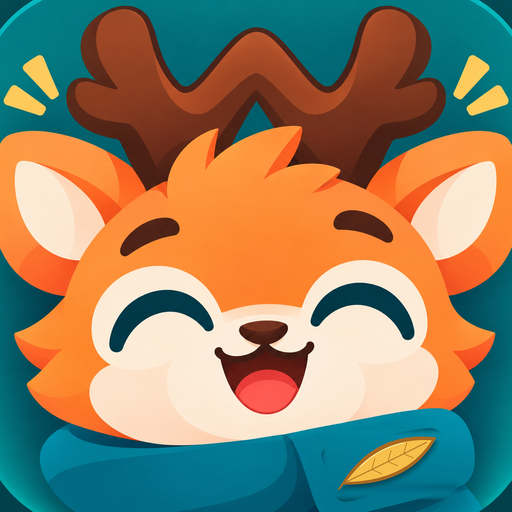
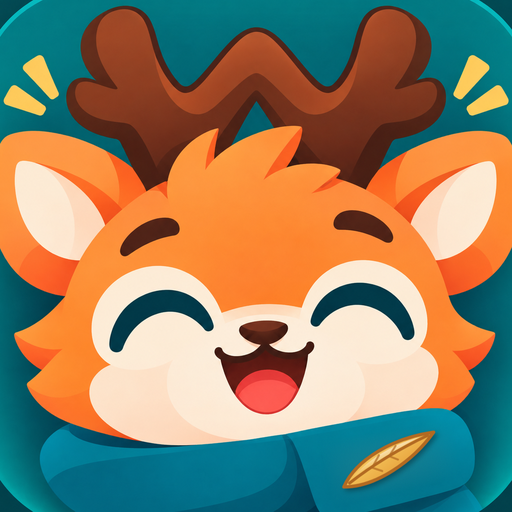
Brand harmony: willow leaf in the wordmark, antler-brown W, clean scarf pin
- One shared vector willow leaf (gold enamel, amber-brown rim): it dots
  the i of WilloPrep and is the pin on Willo's scarf.
- The antler W in the wordmark takes the mascot's antler brown (--antler,
  lighter tan in dark mode); navy 'illo', teal 'Prep'.
- App icon: the old 1600 badge area repainted with a smooth fill, so no
  frame or shadow traces remain; the vector leaf pin sits on top.
- Logo SVGs, email logo and OG image regenerated with the new wordmark.

Claude-Session: https://claude.ai/code/session_01MDW7NKEGobk5YHcn6Uk42U

Changed region(s): [[0.6562, 0.8125, 0.875, 1.0], [0.8438, 0.9375, 0.9062, 1.0]]

diff --git a/scripts/make-brand.ts b/scripts/make-brand.ts
@@ -16,7 +16,7 @@
  */
 import { existsSync, readFileSync, writeFileSync } from "node:fs";
 import { chromium } from "@playwright/test";
-import { ANTLER, antlerPaths } from "../src/lib/brand/antler";
+import { ANTLER, WORD_COLORS, antlerPaths, leafSvg } from "../src/lib/brand/antler";
 
 const OUT = "public/brand";
 const C = { cyanA: "#0A6E87", cyanB: "#1FB3CB", navy: "#102D40", ink: "#0B1D28", cyan: "#087F9B", cyanDark: "#20B9D0", ice: "#E4F7FA", cloud: "#F5F9FC" };
@@ -37,11 +37,11 @@ const plain = (variant: "full" | "simple", fg: string, bg: string) => `<svg xmln
 <rect width="64" height="64" rx="16" fill="${bg}"/><g transform="translate(6 6) scale(0.8125)" fill="none" stroke-linecap="round" stroke-linejoin="round">${antlerPaths(fg, variant)}</g></svg>`;
 
 const wordmarkSvg = (dark: boolean) => {
-  const ink = dark ? C.ice : C.navy;
-  const cy = dark ? C.cyanDark : C.cyan;
+  const c = dark ? WORD_COLORS.dark : WORD_COLORS.light;
+  const leaf = leafSvg(dark ? "ld" : "ll").replace("<svg ", '<svg x="47" y="3" width="15" height="6" transform="rotate(-48 54.5 6)" ');
   return `<svg xmlns="http://www.w3.org/2000/svg" width="236" height="48" viewBox="0 0 236 48">
-<g transform="translate(0 4) scale(0.8)" fill="none" stroke-linecap="round" stroke-linejoin="round">${antlerPaths(ink, "full", ANTLER.glyph)}</g>
-<text x="48" y="38" font-family="'Plus Jakarta Sans', 'Inter', system-ui, sans-serif" font-weight="800" font-size="40" letter-spacing="-1.4" fill="${ink}">illo<tspan fill="${cy}">Prep</tspan></text></svg>`;
+<g transform="translate(0 4) scale(0.8)" fill="none" stroke-linecap="round" stroke-linejoin="round">${antlerPaths(c.antler, "full", ANTLER.glyph)}</g>
+<text x="49" y="40" font-family="'Plus Jakarta Sans', 'Inter', system-ui, sans-serif" font-weight="800" font-size="40" letter-spacing="-1.4" fill="${c.ink}">ıllo<tspan fill="${c.prep}">Prep</tspan></text>${leaf}</svg>`;
 };
 
 /** ICO container holding PNG images. */
@@ -115,11 +115,15 @@ async function main() {
   await png("icon-maskable-512.png", 512, "full", { radius: 0, pad: 0.24 });
   await png("mark-1024.png", 1024, "full");
 
-  const word = (dark: boolean, px: number) =>
-    `<span style="display:inline-flex;align-items:flex-end;font:800 ${px}px/1 'Plus Jakarta Sans';letter-spacing:-0.035em;color:${dark ? C.ice : C.navy}">
-<svg viewBox="2 6 60 50" style="height:0.98em;width:auto;margin-right:-0.02em" fill="none" stroke-linecap="round" stroke-linejoin="round">${antlerPaths(dark ? C.ice : C.navy, "full", ANTLER.glyph)}</svg><span>illo</span><span style="color:${dark ? C.cyanDark : C.cyan}">Prep</span></span>`;
+  let leafN = 0;
+  const word = (dark: boolean, px: number) => {
+    const c = dark ? WORD_COLORS.dark : WORD_COLORS.light;
+    const leaf = leafSvg(`w${leafN++}`, "position:absolute;top:0.06em;left:calc(50% - 0.19em);width:0.38em;transform:rotate(-48deg)");
+    return `<span style="display:inline-flex;align-items:flex-end;font:800 ${px}px/1 'Plus Jakarta Sans';letter-spacing:-0.035em;color:${c.ink}">
+<svg viewBox="2 6 60 50" style="height:0.98em;width:auto;margin-right:0.05em" fill="none" stroke-linecap="round" stroke-linejoin="round">${antlerPaths(c.antler, "full", ANTLER.glyph)}</svg><span style="position:relative;display:inline-block">ı${leaf}</span><span>llo</span><span style="color:${c.prep}">Prep</span></span>`;
+  };
 
-  writeFileSync(`${OUT}/logo-email.png`, await shot(`<div style="padding:4px 2px">${word(false, 52)}</div>`, 300, 64));
+  writeFileSync(`${OUT}/logo-email.png`, await shot(`<div style="padding:10px 4px 4px">${word(false, 50)}</div>`, 300, 70));
 
   const og = `<div style="width:1200px;height:630px;box-sizing:border-box;padding:84px 96px;display:flex;flex-direction:column;justify-content:space-between;
 background:radial-gradient(900px 500px at 85% 15%, rgba(32,185,208,.28), transparent 60%), linear-gradient(160deg, ${C.navy} 0%, ${C.ink} 100%);color:${C.ice};font-family:'Plus Jakarta Sans'">

diff --git a/src/components/brand/antler-w.tsx b/src/components/brand/antler-w.tsx
@@ -1,11 +1,12 @@
 import { cn } from "@/lib/utils";
 
-import { ANTLER } from "@/lib/brand/antler";
+import { useId } from "react";
+import { ANTLER, LEAF } from "@/lib/brand/antler";
 
-export { ANTLER, antlerPaths } from "@/lib/brand/antler";
+export { ANTLER, LEAF, antlerPaths, leafSvg } from "@/lib/brand/antler";
 
 /** The wordmark after the antler W: "illo" + "Prep" (brand name, not translated). */
-const WORD = ["illo", "Prep"] as const;
+const WORD = ["ı", "llo", "Prep"] as const;
 
 /** The antler W in `currentColor`. */
 export function AntlerW({ className, variant = "full", glyph = false, title }: { className?: string; variant?: "full" | "simple"; glyph?: boolean; title?: string }) {
@@ -39,16 +40,37 @@ export function AppMark({ className, simple = false }: { className?: string; sim
   );
 }
 
+/** The willow leaf (gold enamel). Purely decorative. */
+export function WillowLeaf({ className, style }: { className?: string; style?: React.CSSProperties }) {
+  const id = `leaf-${useId().replace(/[^a-zA-Z0-9]/g, "")}`;
+  return (
+    <svg viewBox="0 0 100 40" overflow="visible" className={className} style={style} aria-hidden>
+      <defs>
+        <linearGradient id={id} x1="0" y1="0" x2="1" y2="1">
+          <stop offset="0" stopColor={LEAF.fillFrom} />
+          <stop offset="1" stopColor={LEAF.fillTo} />
+        </linearGradient>
+      </defs>
+      <path d={LEAF.outline} fill={`url(#${id})`} stroke={LEAF.rim} strokeWidth={3.5} strokeLinejoin="round" />
+      <path d={LEAF.vein} fill="none" stroke={LEAF.rim} strokeWidth={3} strokeLinecap="round" />
+    </svg>
+  );
+}
+
 /**
- * The wordmark: the antler W stands in for the W of "WilloPrep".
- * "Willo" in ink, "Prep" in the primary cyan. Inherits font size.
+ * The wordmark: the antler W (in the mascot's antler brown) stands in for the
+ * W of "WilloPrep", and a willow leaf dots the i. Inherits font size.
  */
 export function Wordmark({ className }: { className?: string }) {
   return (
     <span className={cn("inline-flex items-end font-display font-extrabold tracking-[-0.035em] text-foreground", className)} aria-hidden>
-      <AntlerW glyph className="me-[-0.02em] h-[0.98em] w-auto translate-y-[0.02em]" />
-      <span>{WORD[0]}</span>
-      <span className="text-primary">{WORD[1]}</span>
+      <AntlerW glyph className="me-[0.05em] h-[0.98em] w-auto translate-y-[0.02em] text-[var(--antler)]" />
+      <span className="relative inline-block">
+        {WORD[0]}
+        <WillowLeaf className="absolute top-[0.06em] left-[calc(50%-0.19em)] w-[0.38em] -rotate-[48deg]" />
+      </span>
+      <span>{WORD[1]}</span>
+      <span className="text-primary">{WORD[2]}</span>
     </span>
   );
 }

diff --git a/src/lib/brand/antler.ts b/src/lib/brand/antler.ts
@@ -26,3 +26,26 @@ export function antlerPaths(color: string, variant: "full" | "simple" = "full", 
   return [`<path d="${ANTLER.stem}" stroke="${color}" stroke-width="${stem}"/>`, ...ANTLER.tines[variant].map((d) => `<path d="${d}" stroke="${color}" stroke-width="${tine}"/>`)].join("");
 }
 
+
+/**
+ * The willow leaf: the dot of the "i" in the wordmark and the pin on Willo's
+ * scarf. Drawn on a 100×40 grid; gold enamel with an amber-brown rim.
+ */
+export const LEAF = {
+  outline: "M4 24 C24 6 62 2 97 12 C70 28 30 36 4 24 Z",
+  vein: "M10 23 C38 16 66 13 91 12.5",
+  fillFrom: "#F9D166",
+  fillTo: "#E49A35",
+  rim: "#B26A22",
+} as const;
+
+/** Standalone leaf SVG markup (for scripts). `id` keeps gradient ids unique. */
+export function leafSvg(id: string, style = "") {
+  return `<svg xmlns="http://www.w3.org/2000/svg" viewBox="0 0 100 40" overflow="visible" style="${style}"><defs><linearGradient id="${id}" x1="0" y1="0" x2="1" y2="1"><stop offset="0" stop-color="${LEAF.fillFrom}"/><stop offset="1" stop-color="${LEAF.fillTo}"/></linearGradient></defs><path d="${LEAF.outline}" fill="url(#${id})" stroke="${LEAF.rim}" stroke-width="3.5" stroke-linejoin="round"/><path d="${LEAF.vein}" fill="none" stroke="${LEAF.rim}" stroke-width="3" stroke-linecap="round"/></svg>`;
+}
+
+/** Wordmark colours: the antler W takes the mascot's antler brown. */
+export const WORD_COLORS = {
+  light: { antler: "#7A3E1F", ink: "#102D40", prep: "#087F9B" },
+  dark: { antler: "#C98A5A", ink: "#E4F7FA", prep: "#20B9D0" },
+} as const;

diff --git a/src/app/globals.css b/src/app/globals.css
@@ -65,6 +65,7 @@
   --ring: var(--primary);
 
   /* Amber: streaks and XP only. */
+  --antler: #7a3e1f;
   --accent: #df8a3e;
   --accent-foreground: #102d40;
   --accent-soft: #fcefe2;
@@ -172,6 +173,7 @@
   --primary-foreground: #06222C;
   --primary-soft: #123B48;
 
+  --antler: #c98a5a;
   --accent: #f0a462;
   --accent-foreground: #0b1d28;
   --accent-soft: #2e2218;
